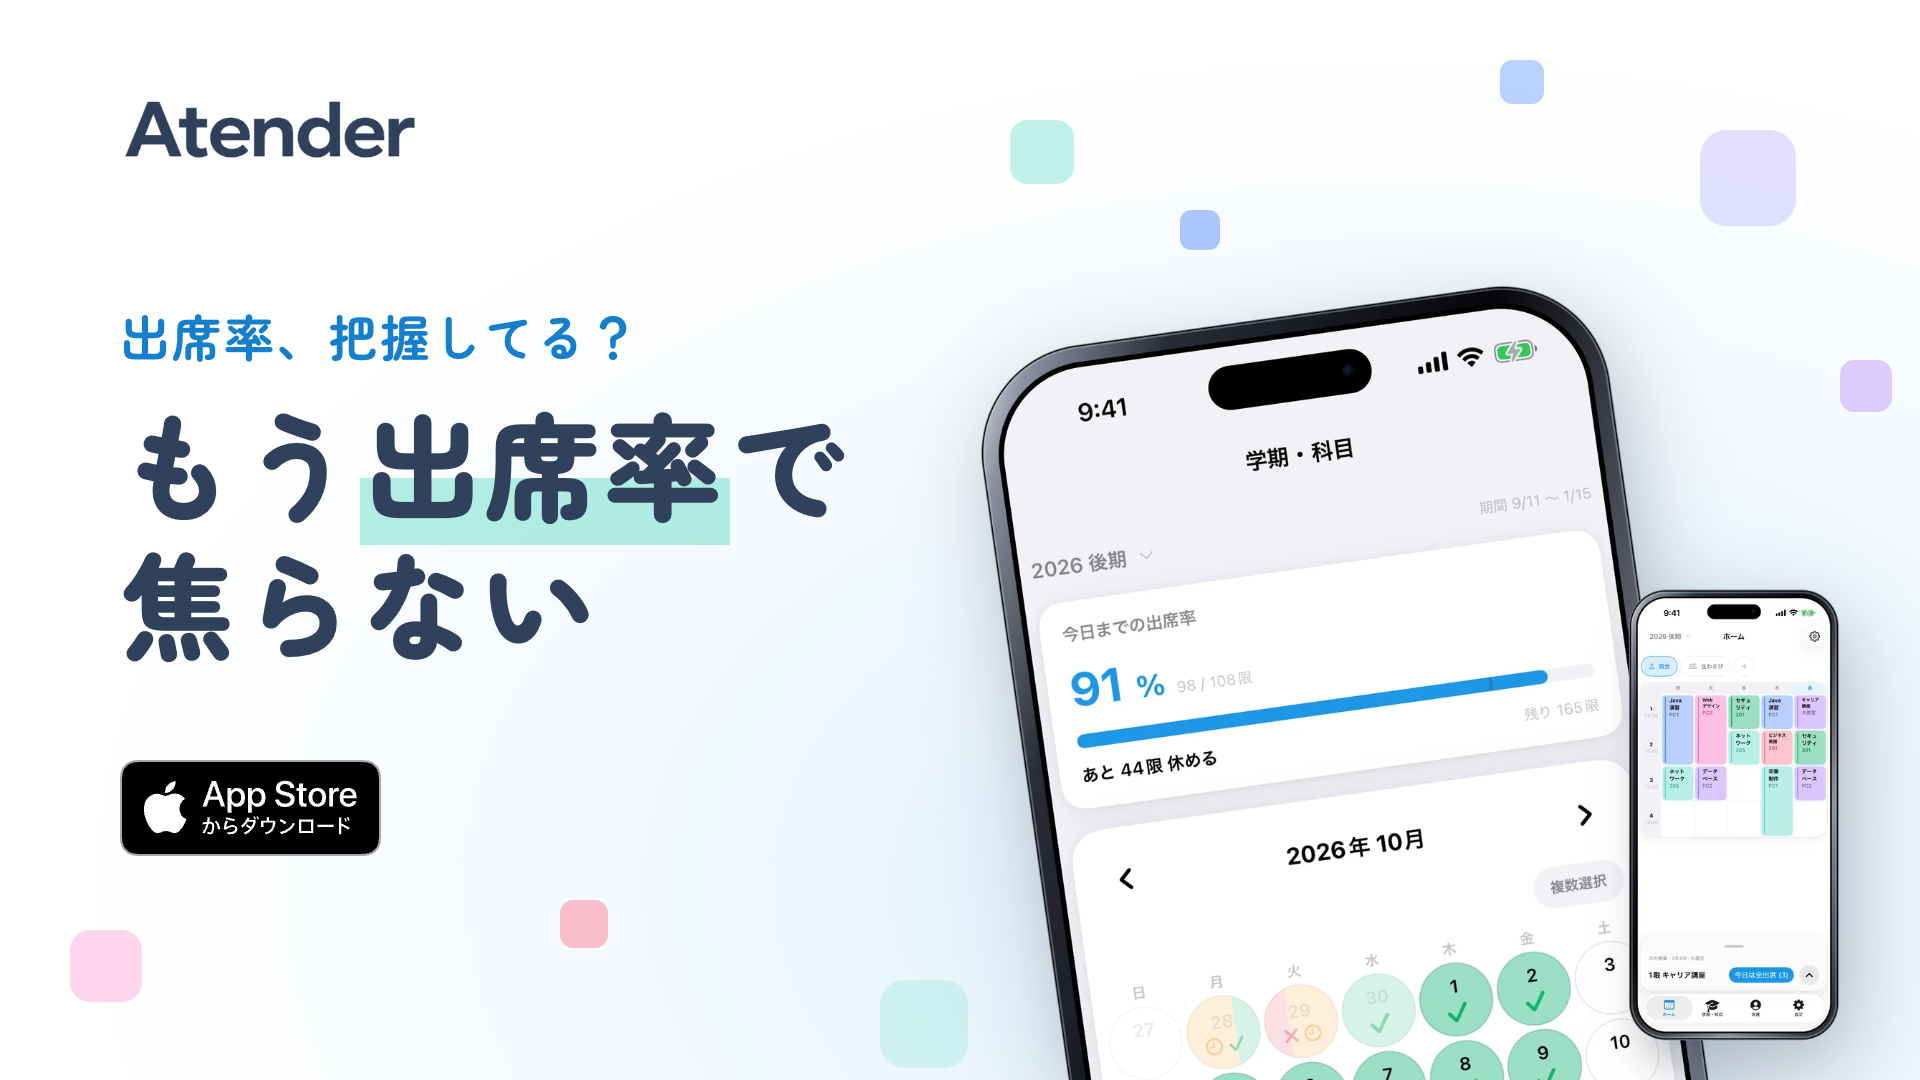
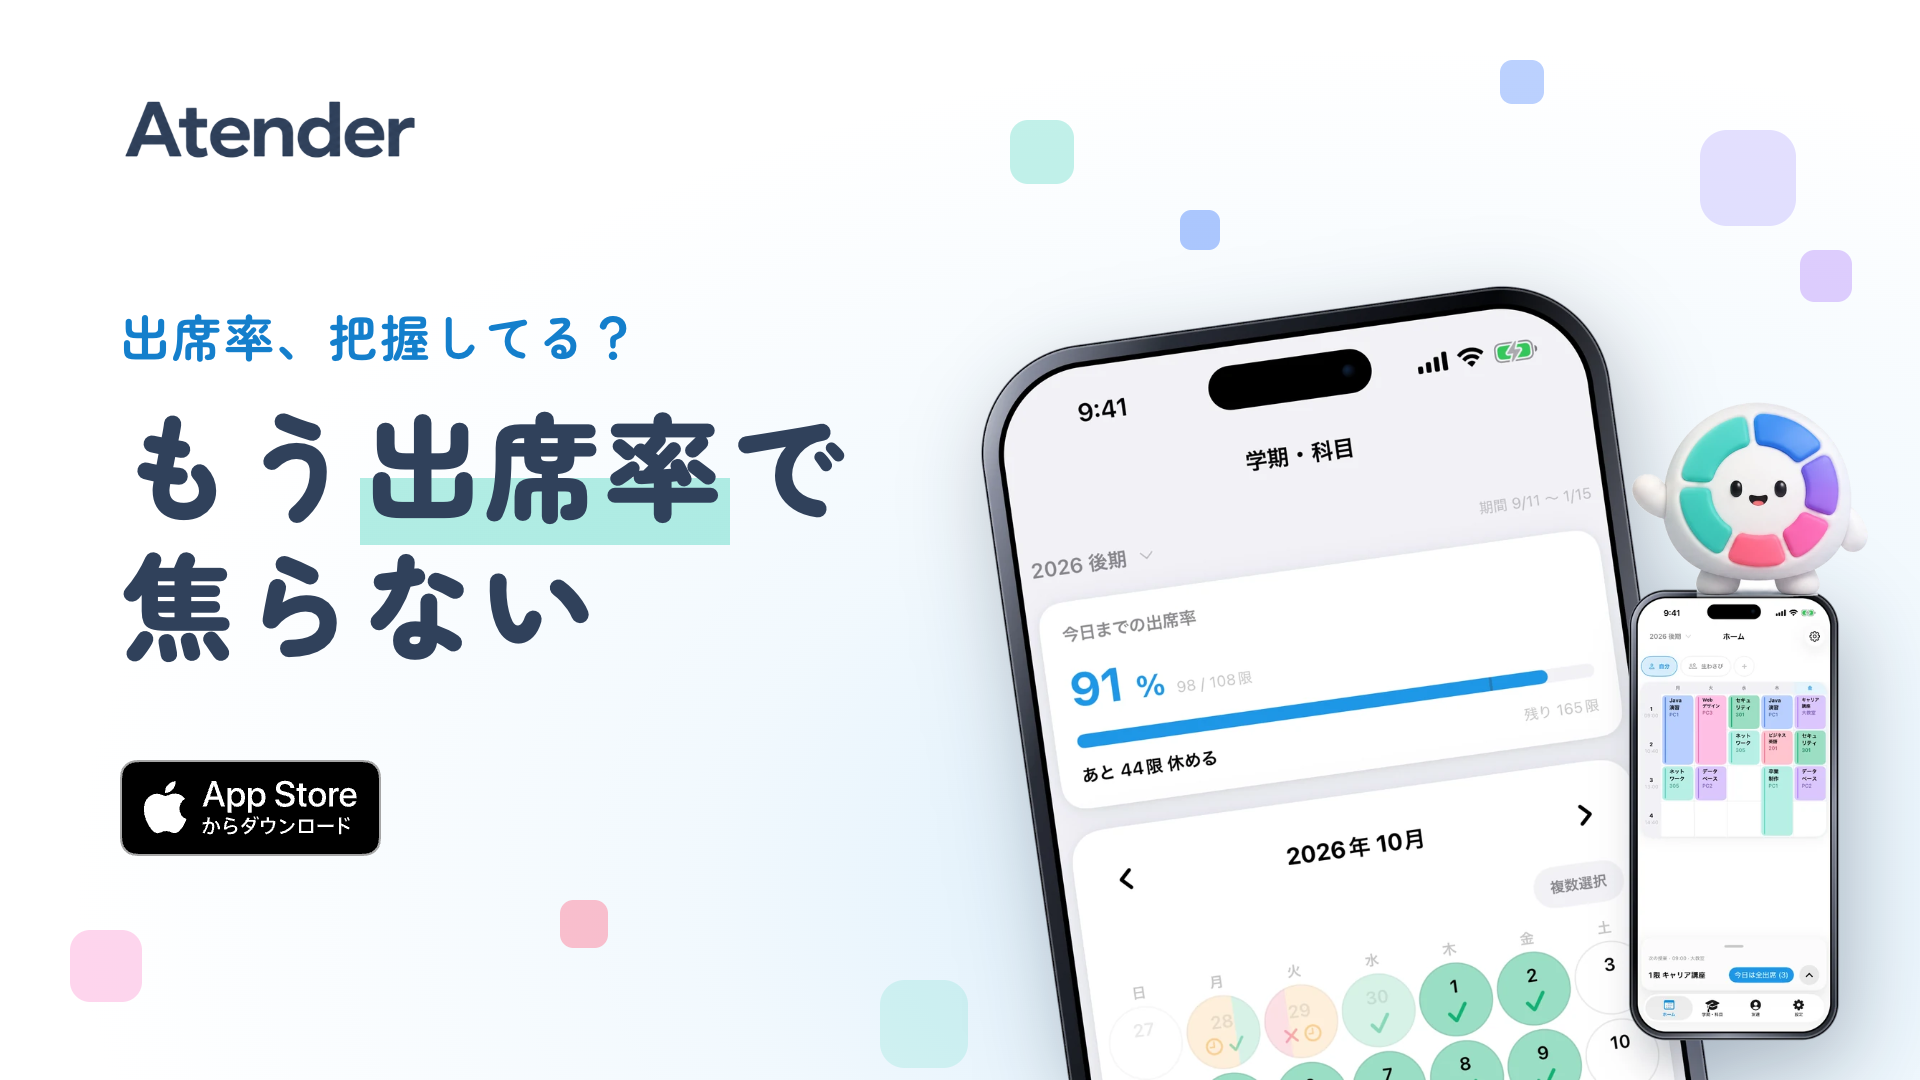
SNS 画像: friends 版 (16:9 の 2 枚目) を追加し、3 枚全てにマスコットを載せる
Claude-Session: https://claude.ai/code/session_01NbTxgwUdvj38hk2ZKZU4pA

Changed region(s): [[0.8438, 0.3361, 1.0, 0.5806], [0.9375, 0.2139, 0.9688, 0.275]]

diff --git a/mocks/social/index.html b/mocks/social/index.html
@@ -22,12 +22,13 @@ body { color: var(--ink); font-family: var(--font); font-weight: 500; -webkit-fo
 .canvas { width: 1920px; height: 1080px; position: relative; overflow: hidden; isolation: isolate;
   background: radial-gradient(ellipse at 72% 82%, var(--glow) 0, var(--glow-mid) 35%, var(--bg) 67%); }
 .wordmark { position: absolute; left: 120px; top: 96px; width: 300px; height: 67px; object-fit: contain; }
-.heading { position: absolute; left: 120px; top: 300px; width: 820px; z-index: 3; }
+.heading { position: absolute; left: 120px; top: 300px; width: 1000px; z-index: 3; }
 .small { margin: 0 0 22px; font-size: 50px; line-height: 1.4; font-weight: 700; letter-spacing: .04em; color: var(--accent-600); }
 h1 { margin: 0; font-size: 116px; line-height: 1.2; font-weight: 900; letter-spacing: .035em; color: var(--ink); white-space: pre-line; }
 em.hl { font-style: normal; background: linear-gradient(transparent 60%, color-mix(in srgb, var(--hl) 45%, transparent) 60%); padding: 0 .04em; }
 .store-badge { position: absolute; left: 120px; top: 760px; height: 96px; width: auto; }
 .phones { position: absolute; right: 80px; bottom: 0; width: 860px; height: auto; z-index: 2; filter: drop-shadow(11px 27px 42px var(--phone-shadow)); }
+.mascot { position: absolute; z-index: 3; height: auto; }
 .shape { position: absolute; z-index: 0; width: var(--size); height: var(--size); border-radius: 28%; background: var(--shape-color); opacity: calc(var(--alpha) * var(--shape-alpha-k)); }
 </style>
 </head>
@@ -39,14 +40,45 @@ em.hl { font-style: normal; background: linear-gradient(transparent 60%, color-m
     <h1 id="title"></h1>
   </div>
   <img class="store-badge" src="../../apps/lp/site/img/app-store-badge-ja.svg" alt="App Store からダウンロード">
-  <img class="phones" src="../../apps/lp/site/img/hero-phones.webp" alt="">
+  <img class="phones" id="phones" alt="">
+  <img class="mascot" id="mascot" alt="">
 </div>
 <script>
-const SMALL = '出席率、把握してる？';
-const LARGE = 'もう[出席率]で\n焦らない';
+// ?variant=hero (既定) | friends。コピーはストア画像 A 案 (.designs/20261029-store-screenshots.md §3-1) の 1 枚目 / 5 枚目。
+// マスコットは「端末の肩 (右上) に乗せる」。OG (y 36〜1044 を切り出し) の安全域 y 86〜994 の内側に可視部が収まる位置。
+const VARIANTS = {
+  hero: {
+    small: '出席率、把握してる？',
+    large: 'もう[出席率]で\n焦らない',
+    hl: '#56D8C3',
+    phones: { src: '../../apps/lp/site/img/hero-phones.webp', css: 'right:80px; width:860px' },
+    mascot: { src: '../../apps/lp/site/img/mascot-hello.webp', left: 1620, top: 370, width: 260 },
+    shapes: [[1010, 120, 64, .18], [1180, 210, 40, .24], [1700, 130, 96, .12], [1800, 250, 52, .18],
+      [70, 930, 72, .14], [560, 900, 48, .22], [880, 980, 88, .10], [1500, 60, 44, .20]]
+  },
+  friends: {
+    small: '次の空きコマ、誰いる？',
+    large: '友達の[時間割]を\n重ねて見る',
+    hl: '#FD728E',
+    phones: { src: '../../apps/lp/site/img/phone-5.webp', css: 'right:210px; width:460px' },
+    mascot: { src: '../../apps/web/public/character/mascot-chat.png', left: 1482, top: 55, width: 300 },
+    shapes: [[1010, 120, 64, .18], [1180, 300, 40, .24], [1760, 560, 96, .12], [1840, 300, 52, .18],
+      [70, 930, 72, .14], [560, 900, 48, .22], [880, 980, 88, .10], [1000, 640, 44, .20]]
+  }
+};
+const variant = new URLSearchParams(location.search).get('variant') === 'friends' ? 'friends' : 'hero';
+const V = VARIANTS[variant];
+const { small: SMALL, large: LARGE, shapes: SHAPES } = V;
 const COLORS = ['#56D8C3', '#568CFC', '#8F7EFC', '#A978FA', '#FC6ABF', '#FD728E'];
-const SHAPES = [[1010, 120, 64, .18], [1180, 210, 40, .24], [1700, 130, 96, .12], [1840, 360, 52, .18],
-  [70, 930, 72, .14], [560, 900, 48, .22], [880, 980, 88, .10], [1500, 60, 44, .20]];
+document.documentElement.style.setProperty('--hl', V.hl);
+const phonesImg = document.getElementById('phones');
+phonesImg.src = V.phones.src;
+phonesImg.style.cssText = V.phones.css;
+const mascotImg = document.getElementById('mascot');
+mascotImg.src = V.mascot.src;
+mascotImg.style.left = V.mascot.left + 'px';
+mascotImg.style.top = V.mascot.top + 'px';
+mascotImg.style.width = V.mascot.width + 'px';
 const canvas = document.getElementById('canvas');
 document.getElementById('small').textContent = SMALL;
 const title = document.getElementById('title');

diff --git a/CLAUDE.md b/CLAUDE.md
@@ -97,7 +97,7 @@ xcrun xcresulttool export attachments --path run.xcresult --output-path shots   
 
 ### LP / SNS 画像を更新する
 
-正典は `.designs/20261030-landing-page-and-social-image.md` §6 (挙動) と `mocks/social/README.md`。文言・レイアウトは `apps/lp/site/index.html` / `style.css` を直接編集。端末画像はストア画像 (`assets/store/<版>/`) から `python3 -I mocks/social/extract-phones.py` で作り直し、SNS / OG 画像は `bash mocks/social/render.sh`。ストア画像を作り直して端末の CSS 座標が変わったら extract-phones.py の定数を引き直す。デプロイは Coolify の `atender-lp` を deploy (POST)。
+正典は `.designs/20261030-landing-page-and-social-image.md` §6 (挙動) と `mocks/social/README.md`。文言・レイアウトは `apps/lp/site/index.html` / `style.css` を直接編集。端末画像はストア画像 (`assets/store/<版>/`) から `python3 -I mocks/social/extract-phones.py` で作り直し、SNS 画像 3 枚 (`hero-1920x1080.png` / `friends-1920x1080.png` / `og-1200x630.png`、全てマスコット入り) は `bash mocks/social/render.sh` 1 回で `assets/social/<版>/` に出る (OG は `apps/lp/site/` にもコピーされる)。ストア画像を作り直して端末の CSS 座標が変わったら extract-phones.py の定数を引き直す。デプロイは Coolify の `atender-lp` を deploy (POST)。
 
 ### TestFlight に配布 (CLI 完結・Xcode GUI 不要)
 

diff --git a/mocks/social/README.md b/mocks/social/README.md
@@ -5,6 +5,6 @@ atender ルートで:
 ```sh
 python3 -I mocks/social/extract-phones.py                         # ストア画像 (assets/store/1.0.1) から端末を透過で切り出し → apps/lp/site/img/*.webp
 python3 -I mocks/store/vendor-fonts.py zenmaru --out apps/lp/site/fonts   # フォントの同梱 (初回のみ)
-bash mocks/social/render.sh                                       # SNS 画像 (1920×1080) + OG (1200×630) → assets/social/1.0.1/ と apps/lp/site/og-1200x630.png
+bash mocks/social/render.sh                                       # SNS 画像 3 枚 (hero / friends 1920×1080 + OG 1200×630。全てマスコット入り、friends は index.html?variant=friends) → assets/social/1.0.1/ と apps/lp/site/og-1200x630.png (OG は hero の上下 36px を落として縮小)
 node mocks/social/lp-shots.mjs [baseUrl]                          # LP のスクショ + 崩れ検査
 ```
